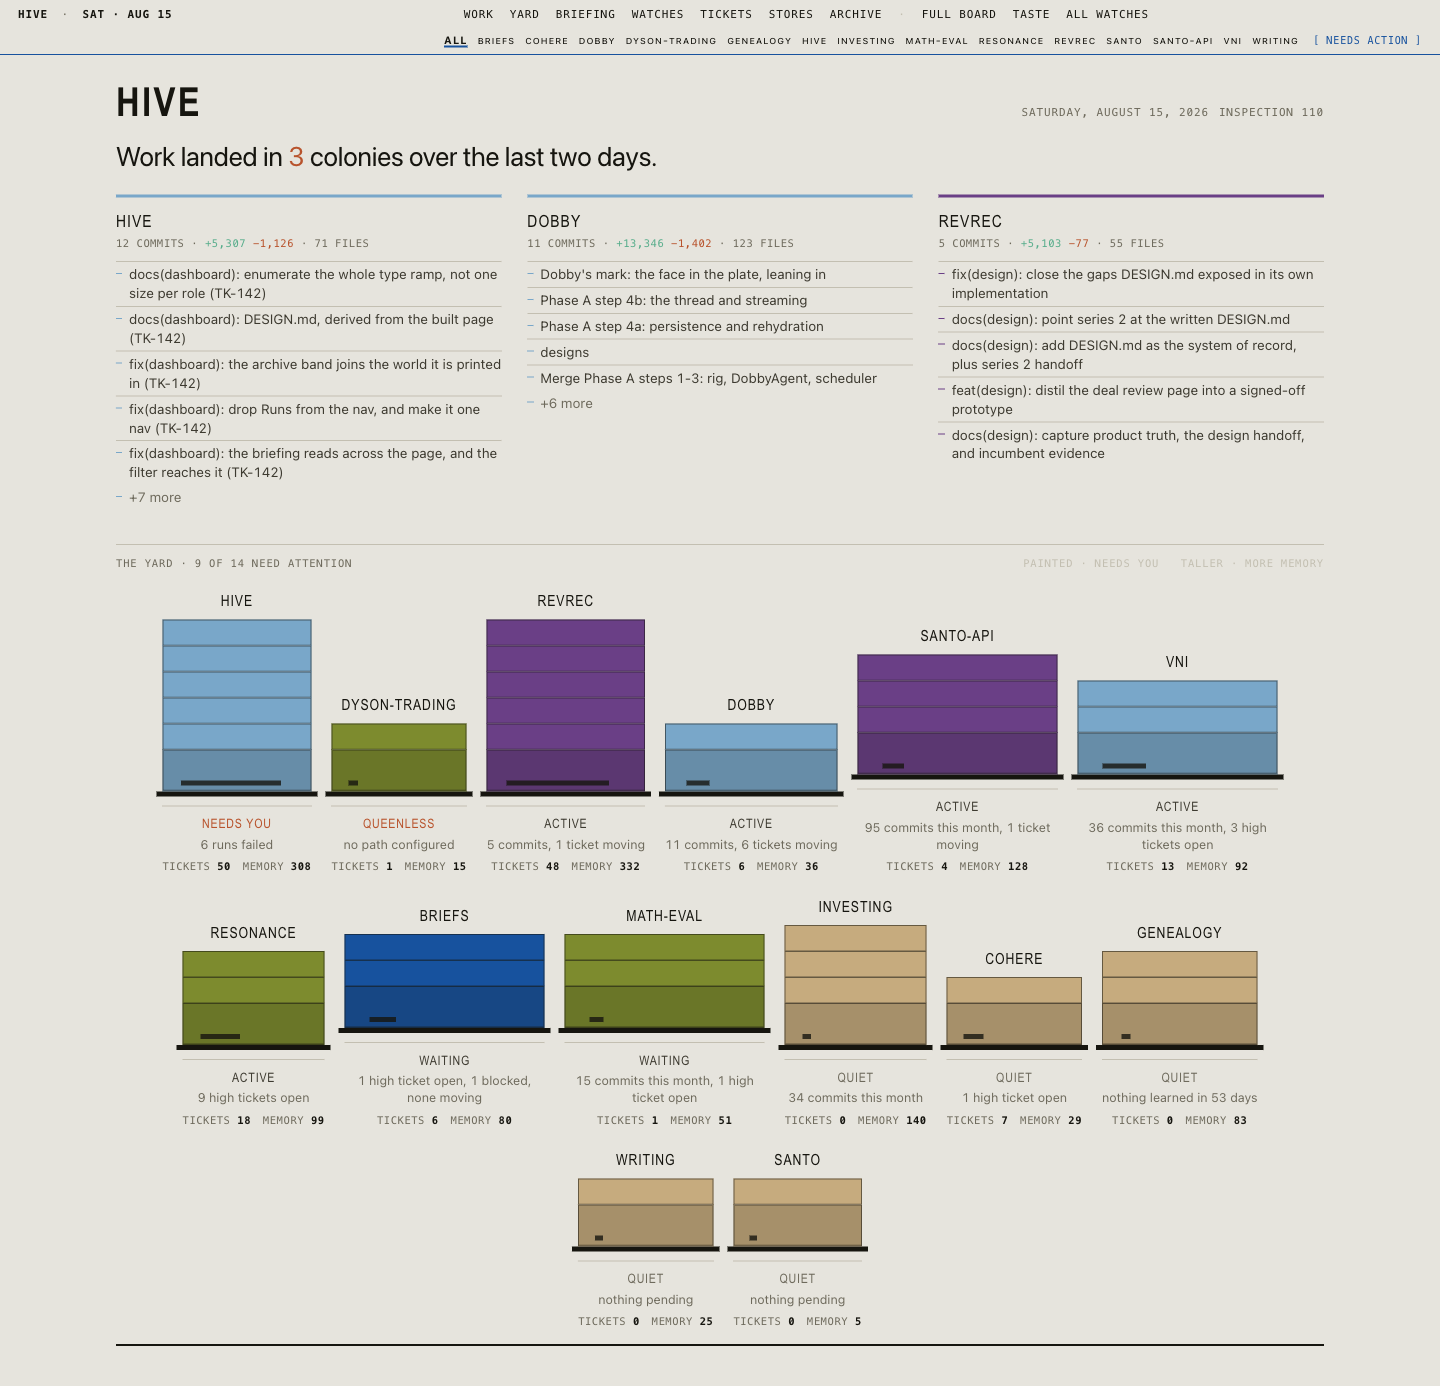
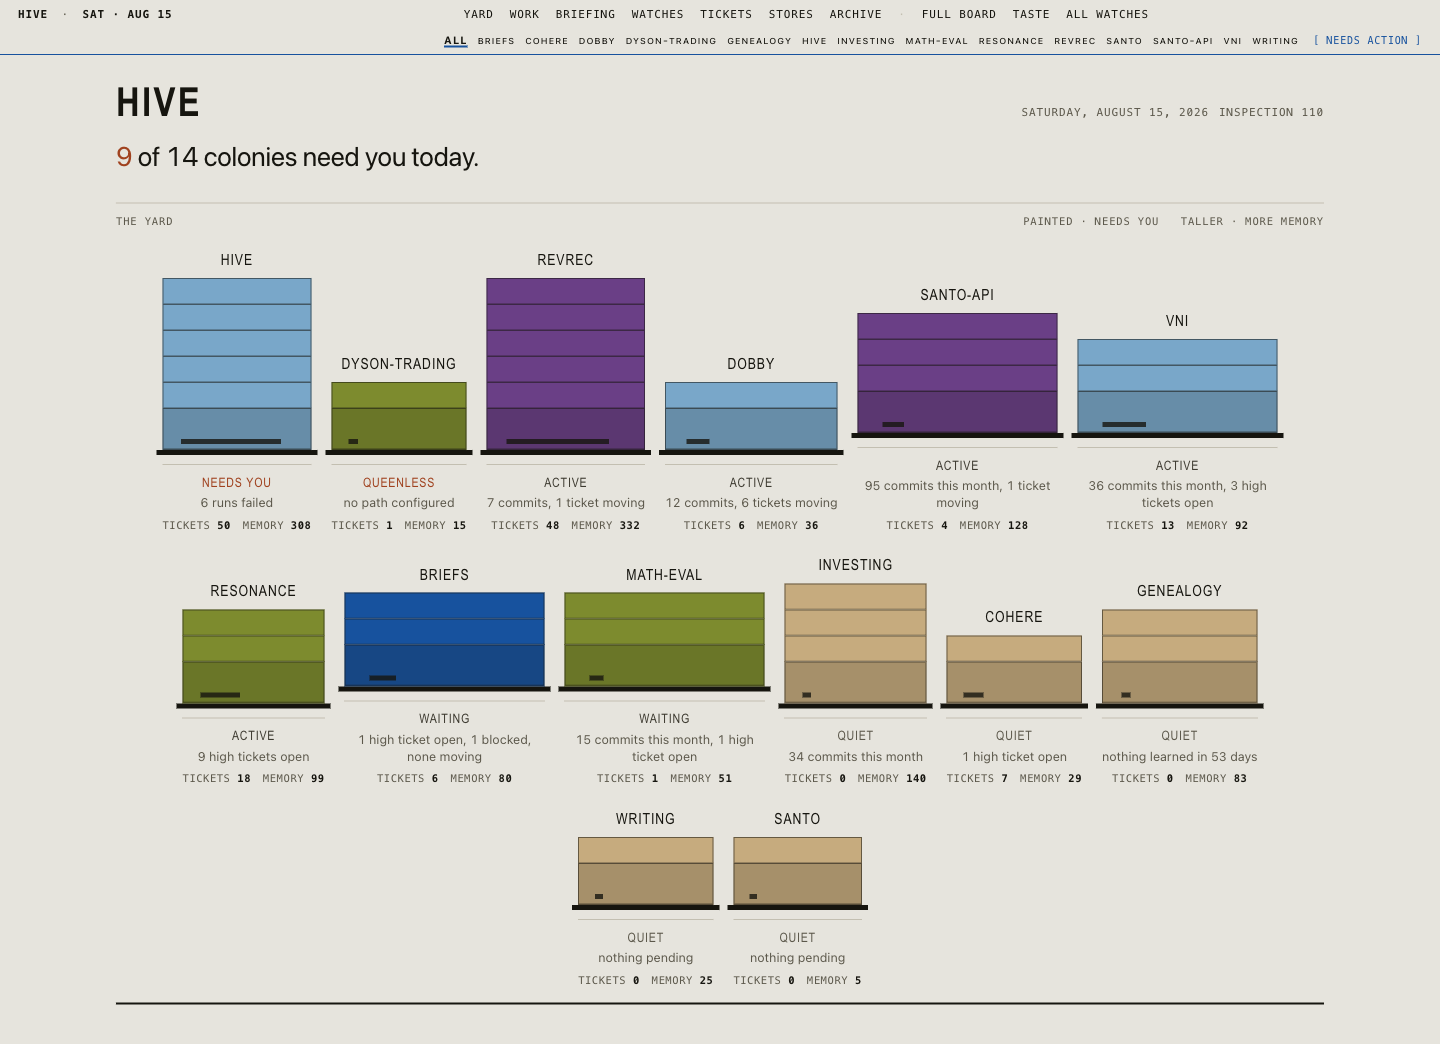
fix(dashboard): close the eight findings from the finish review (TK-142)
**The largest sentence now answers the question the reader came with.**
The 27px slot said "Work landed in 3 colonies over the last two days" —
activity, not a verdict — while "9 of 14 need attention" sat at 10.5px
muted in the yard label. It now reads "9 of 14 colonies need you today",
and the commit count moved to the work band's own label where it belongs.
This is the contract's FIRST VIEWPORT and DESIGN.md's own Answer-First
Rule, both of which the build was failing.

**The hives come directly beneath that sentence.** The work band stood in
between, ~226px of counts and commit prose that pushed every verdict plate
below an 800px fold. Moved below the yard; the first verdict now sits at
506px.

**Oxide is escalation again.** Four decorative uses removed — deletion
figures, the hovered colony name, the selected colony name, and a commit
count. Selection and hover are ruled instead, which is the ordinary
grammar for "this is the thing you are about to click", and the dimming of
every other colony was already the loud signal. The one oxide use that
survives is the count of colonies that want you, which is the escalation
itself.

**Four colours failed AA and one of them was the verdict.** --muted was
4.26:1 on chalk and carries nearly every small string on the page;
--oxide was 3.83:1 and sets NEEDS YOU at 13px; --faint at 1.45:1 was
setting the legend that teaches what the whole yard means; the additive
figure was verdigris at 2.13:1. Now 5.59, 5.01, --muted, and --muted.
[…]

diff --git a/src/lib/dashboard/render.ts b/src/lib/dashboard/render.ts
@@ -273,15 +273,22 @@ export function renderYard(data: DashboardData): string {
   // The work band is about what actually landed, so a project that is only
   // live on the month scale scores in the yard but earns no row here.
   const worked = (data.activity ?? []).filter((a) => a.commits > 0);
-  const call = worked.length === 0
-    ? `<p class="quiet">Nothing moved in the last two days.</p>`
-    : `<p>Work landed in <span class="count">${worked.length}</span> ${
-        worked.length === 1 ? "colony" : "colonies"
-      } over the last two days.</p>`;
 
-  const attentionLine = attention.length === 0
-    ? `all ${colonies.length} quiet`
-    : `${attention.length} of ${colonies.length} need attention`;
+  // The largest sentence on the page answers the question the reader came
+  // with. It used to count commits, which is activity, not a verdict — the
+  // number that actually decides the morning was set at 10.5px in the yard
+  // label. Scale follows how load-bearing a sentence is, not where it sits.
+  const call = colonies.length === 0
+    ? `<p class="quiet">No colonies in the yard.</p>`
+    : attention.length === 0
+      ? `<p class="quiet">All ${colonies.length} colonies are quiet.</p>`
+      : `<p><span class="count">${attention.length}</span> of ${colonies.length} ${
+          colonies.length === 1 ? "colony needs" : "colonies need"
+        } you today.</p>`;
+
+  const workedLine = worked.length === 0
+    ? "nothing landed in the last two days"
+    : `${worked.length} ${worked.length === 1 ? "colony" : "colonies"} &middot; last two days`;
 
   const hives = colonies
     .map((c, i) => {
@@ -329,14 +336,14 @@ export function renderYard(data: DashboardData): string {
   </div>
 </header>
 <div class="yard-call">${call}</div>
-${renderWork(worked)}
-<section class="yard" id="section-yard">
+<section class="yard" id="section-yard" aria-labelledby="yard-label">
   <div class="yard-label">
-    <span>The yard &middot; ${escapeHtml(attentionLine)}</span>
+    <h2 id="yard-label">The yard</h2>
     <span class="yard-key">painted &middot; needs you &nbsp; taller &middot; more memory</span>
   </div>
   ${body}
-</section>`;
+</section>
+${renderWork(worked, workedLine)}`;
 }
 
 /** How many commit subjects a colony shows before it folds the rest away. */
@@ -347,7 +354,7 @@ const SUBJECT_CAP = 5;
  * record of work HIVE actually holds, and a subject someone wrote by hand
  * says more than a count of closed tickets.
  */
-export function renderWork(activity: ProjectActivity[]): string {
+export function renderWork(activity: ProjectActivity[], aside = ""): string {
   if (activity.length === 0) {
     return `<section class="work"><p class="work-none">No commits in the window. Either a quiet stretch or the repos moved somewhere HIVE is not looking.</p></section>`;
   }
@@ -373,7 +380,16 @@ export function renderWork(activity: ProjectActivity[]): string {
     })
     .join("");
 
-  return `<section class="work" id="section-work"><ol class="work-list">${items}</ol></section>`;
+  // The commit count moved here from the page's largest sentence. It belongs
+  // to this band — it says how much landed, not whether anything wants you.
+  return `
+<section class="work" id="section-work" aria-labelledby="work-label">
+  <div class="yard-label">
+    <h2 id="work-label">Work</h2>
+    ${aside ? `<span class="yard-key">${aside}</span>` : ""}
+  </div>
+  <ol class="work-list">${items}</ol>
+</section>`;
 }
 
 /**
@@ -408,8 +424,8 @@ export function renderUpkeep(data: DashboardData): string {
     : "";
 
   return `
-<section class="upkeep" id="section-upkeep">
-  <div class="yard-label"><span>Upkeep</span></div>
+<section class="upkeep" id="section-upkeep" aria-labelledby="upkeep-label">
+  <div class="yard-label"><h2 id="upkeep-label">Upkeep</h2></div>
   <ul class="upkeep-list">${jobs}${cost}${taste}</ul>
 </section>`;
 }
@@ -418,12 +434,17 @@ export function renderUpkeep(data: DashboardData): string {
  * Section shell: one heading language for every band below the yard.
  * `aside` is author-written markup, never user content — callers escape
  * anything interpolated into it themselves.
+ *
+ * The title is a real `h2` carrying the section's accessible name. It was a
+ * span in a div, which looked identical and left six major sections with no
+ * heading and no name — the page's only real headings came from briefing
+ * markdown, at 14px, below body size.
  */
 function band(id: string, title: string, aside: string, body: string): string {
   return `
-<section class="band" id="section-${id}">
+<section class="band" id="section-${id}" aria-labelledby="${id}-label">
   <div class="yard-label">
-    <span>${escapeHtml(title)}</span>
+    <h2 id="${id}-label">${escapeHtml(title)}</h2>
     ${aside ? `<span class="yard-key">${aside}</span>` : ""}
   </div>
   ${body}
@@ -449,8 +470,16 @@ function band(id: string, title: string, aside: string, body: string): string {
 export function renderBriefingBand(data: DashboardData): string {
   const b = data.todayBriefing;
   if (!b) return "";
-  // Drop the artifact's own H1: the band already carries the date.
-  const body = b.body.replace(/^#\s+.*\n?/, "").trim();
+  // Drop the artifact's own H1 (the band already carries the date) and the
+  // "## Headline" label above the lede. The label is an eyebrow over a
+  // heading — the sentence beneath it is self-evidently the headline, and
+  // naming it costs a line and says nothing. The briefing template still
+  // writes it because the section names are how the generator is steered;
+  // stripping it here keeps that contract intact and the page clean.
+  const body = b.body
+    .replace(/^#\s+.*\n?/, "")
+    .replace(/^\s*##\s+headline\s*\n/i, "")
+    .trim();
   const projectIds = data.projects.map((p) => p.id);
   const html = tagProjectBullets(tagProjectSections(md(body), projectIds), projectIds);
   return band(
@@ -613,8 +642,8 @@ export function renderStickyNav(data: DashboardData, c: RenderContext): string {
     (data.openQuestions ?? []).length > 0 ||
     (data.promotionCandidates ?? []).length > 0;
   const sections: [boolean, string, string][] = [
-    [(data.activity ?? []).some((a) => a.commits > 0), "#section-work", "Work"],
     [true, "#section-yard", "Yard"],
+    [(data.activity ?? []).some((a) => a.commits > 0), "#section-work", "Work"],
     [!!data.todayBriefing, "#section-briefing", "Briefing"],
     [(data.watches?.rows.length ?? 0) > 0, "#section-watches", "Watches"],
     [true, "#section-tickets", "Tickets"],

diff --git a/src/lib/dashboard/styles/yard.ts b/src/lib/dashboard/styles/yard.ts
@@ -56,6 +56,8 @@ export const YARD_CSS = `
   text-wrap: balance;
   max-width: 34ch;
 }
+/* Oxide earns its place here now: the count is how many colonies want you,
+   which is the escalation itself. It was a commit count, which was not. */
 .yard-call .count { color: var(--oxide); }
 .yard-call .quiet { color: var(--muted); }
 
@@ -98,8 +100,11 @@ export const YARD_CSS = `
   color: var(--muted);
   margin-top: 2px;
 }
-.work-figures .add { color: var(--hive-1); }
-.work-figures .cut { color: var(--oxide); }
+/* Insertions and deletions are measurements, not escalations, and the sign
+   already says which is which. Verdigris on chalk was 2.13:1 and oxide is
+   reserved — all colour in this system sits on objects, none on the page. */
+.work-figures .add,
+.work-figures .cut { color: var(--muted); }
 
 .work-subjects {
   list-style: none;
@@ -151,7 +156,20 @@ export const YARD_CSS = `
   justify-content: space-between;
   gap: 20px;
 }
-.yard-key { color: var(--faint); }
+/* The section title is a real h2 for the outline and the accessible name, and
+   it must look exactly like the span it replaced — the label is a label, not
+   a heading you read. Everything here undoes a user-agent default. */
+.yard-label h2 {
+  font: inherit;
+  letter-spacing: inherit;
+  text-transform: inherit;
+  color: inherit;
+  margin: 0;
+}
+/* This line teaches the two encodings the whole yard rests on — "painted ·
+   needs you, taller · more memory" — and at --faint it was 1.45:1, which is
+   to say it was not there. Same class carries every band's count. */
+.yard-key { color: var(--muted); }
 
 /* ---------- Bands below the yard ---------- */
 
@@ -209,8 +227,10 @@ export const YARD_CSS = `
 .briefing-body li { margin-bottom: 6px; line-height: 1.5; }
 .briefing-body code { background: var(--chalk-deep); padding: 1px 4px; }
 
-/* The lede: the one sentence the night decided mattered. */
-.briefing-body > h2:first-child + p {
+/* The lede: the one sentence the night decided mattered. It is the first
+   thing in the band now that the "Headline" label is stripped in the
+   renderer, so it is selected directly rather than through the eyebrow. */
+.briefing-body > p:first-child {
   font-size: 20px;
   line-height: 1.45;
   max-width: 62ch;
@@ -376,8 +396,15 @@ export const YARD_CSS = `
 
 /* ---------- Project filter: the colonies are the control ---------- */
 
+/* Being the selected colony is not an escalation, so it is not oxide. The
+   dimming of every other colony is already the loud signal; the board thickens
+   and the name is ruled to say which one you are standing in. */
 .yard.filtering .colony:not(.colony--selected) { opacity: 0.3; }
-.colony--selected .colony-name { color: var(--oxide); }
+.colony--selected .colony-name {
+  text-decoration: underline;
+  text-decoration-thickness: 2px;
+  text-underline-offset: 3px;
+}
 .colony--selected .colony-board { height: 8px; }
 
 /* Filtered to one colony, the briefing is one colony's briefing: a column of
@@ -548,8 +575,13 @@ body.filtered-to-project .briefing-body > ol { columns: 1; max-width: 74ch; }
 
 /* ---------- States ---------- */
 
+/* Hover is not an escalation either. A rule under the name is the ordinary
+   grammar for "this is the thing you are about to click". */
 .colony:hover .colony-name,
-.colony:focus-visible .colony-name { color: var(--oxide); }
+.colony:focus-visible .colony-name {
+  text-decoration: underline;
+  text-underline-offset: 3px;
+}
 .colony:hover .super { border-color: var(--ink); }
 
 /* Wood already reads as quiet; dimming on top of it only muddies the seams. */

diff --git a/src/__tests__/dashboard-render.test.ts b/src/__tests__/dashboard-render.test.ts
@@ -297,6 +297,60 @@ describe("renderDashboard", () => {
   });
 });
 
+// The direction contract promises a first viewport of one sentence counting
+// the colonies that want you, with the hives beneath it. The build shipped a
+// commit count in that slot and the work band in between; the finish review
+// caught it. These pin the shape.
+describe("first viewport — the answer, then the hives", () => {
+  test("the page's largest sentence counts the colonies that want you", () => {
+    const html = renderDashboard(baseData());
+    const call = html.match(/<div class="yard-call">([\s\S]*?)<\/div>/)![1]!;
+    expect(call).toMatch(/need(s)? you today/);
+    expect(call).toContain('<span class="count">');
+    // Activity is not a verdict, and it used to hold this slot.
+    expect(call).not.toContain("Work landed");
+  });
+
+  test("a quiet apiary says so rather than counting to zero", () => {
+    const html = renderDashboard(baseData({ projects: [], briefings: [], todayBriefing: null }));
+    expect(html).toContain("No colonies in the yard");
+  });
+
+  test("nothing stands between the sentence and the yard", () => {
+    const html = renderDashboard(
+      baseData({
+        activity: [
+          { projectId: "alpha", commits: 2, insertions: 8, deletions: 1, filesChanged: 2, subjects: ["a thing"] },
+        ],
+      }),
+    );
+    expect(html.indexOf('class="yard-call"')).toBeLessThan(html.indexOf('id="section-yard"'));
+    expect(html.indexOf('id="section-yard"')).toBeLessThan(html.indexOf('id="section-work"'));
+  });
+
+  test("every section carries a heading and an accessible name", () => {
+    const html = renderDashboard(baseData());
+    for (const id of ["yard", "briefing", "tickets", "stores", "archive", "upkeep"]) {
+      expect(html).toContain(`aria-labelledby="${id}-label"`);
+      expect(html).toContain(`<h2 id="${id}-label">`);
+    }
+  });
+
+  test("the briefing leads with its lede, not with the word Headline", () => {
+    const html = renderDashboard(
+      baseData({
+        todayBriefing: {
+          date: "2026-04-17",
+          body: "# HIVE\n\n## Headline\nOne sentence that mattered.\n",
+          headline: "One sentence",
+        },
+      }),
+    );
+    expect(html).toContain("One sentence that mattered.");
+    expect(html).not.toContain("<h2>Headline</h2>");
+  });
+});
+
 // The project filter hides `[data-project]` and nothing else, so every surface
 // that speaks about one project has to say so in the markup. This has now been
 // missed twice — once when the filter shipped, once when the redesign rebuilt

diff --git a/src/lib/dashboard/styles/base.ts b/src/lib/dashboard/styles/base.ts
@@ -18,11 +18,18 @@ export const BASE_CSS = `
   --chalk-deep: #dad7cc;
   --ink: #16150f;
   --ink-soft: #3d3a30;
-  --muted: #6e6a5c;
+  /* 5.6:1 on chalk. Was #6e6a5c at 4.26:1, which fails AA for small text and
+     is what nearly every small string on the page is set in — colony reasons,
+     band labels, figures, dateline, upkeep, footer. */
+  --muted: #5c584b;
+  /* A rule colour, not a text colour: 1.45:1 on chalk. Anything readable
+     belongs in --muted or darker. */
   --faint: #c3bfb1;
 
-  /* Reserved. Escalation only — never decoration. */
-  --oxide: #b8532c;
+  /* Reserved. Escalation only — never decoration.
+     4.9:1 on chalk. Was #b8532c at 3.83:1, and it sets the colony verdict at
+     13px — the single most load-bearing string on the surface. */
+  --oxide: #a0421f;
 
   /* Painted hive bodies. Stable slot per project.
      Values alternate dark / mid / dark / mid / dark so any two neighbours

diff --git a/DESIGN.md b/DESIGN.md
@@ -6,9 +6,9 @@ colors:
   chalk-deep: "#dad7cc"
   ink: "#16150f"
   ink-soft: "#3d3a30"
-  muted: "#6e6a5c"
+  muted: "#5c584b"
   faint: "#c3bfb1"
-  oxide: "#b8532c"
+  oxide: "#a0421f"
   wood: "#c6ab7e"
   hive-0: "#17529e"
   hive-1: "#57ad8b"
@@ -63,8 +63,9 @@ typography:
   # but three of the tiers are ranked rather than single-valued — title runs
   # 17/15/14/13 by how load-bearing the name is, body-small runs 13.5/12.5, and
   # the mono label tier runs 11/10.5/10. Plus the verdict sentence's 22px
-  # compact step below 860px. Thirteen steps and no strays: every font-size on
-  # the surface is one of these.
+  # compact step below 860px. Fourteen entries, thirteen distinct sizes (title
+  # and body deliberately share 15px), and no strays: every font-size on the
+  # surface is one of these.
   scale:
     display: "40px"
     headline: "27px"
@@ -161,7 +162,9 @@ The density is that of a working record rather than a product page. Rules are ha
 
 Three anti-references are binding and were chosen against explicitly. **No hexagon** appears anywhere — the world is a yard of boxes, not a bee mascot. **Honey-amber is not the accent**; the only warm tone in the system is unpainted pine, and it means the opposite of "look here". And this replaces a **serif broadsheet** dashboard: the incumbent's double-rule masthead, 68px display weight, and equal-weight section stack are what the thesis refuses, not a style to preserve.
 
-Two things are open, not settled. The display face `--stencil` currently resolves to a condensed *system* stack (`"Haettenschweiler", "Arial Narrow"`) carrying an explicit do-not-ship comment in `base.ts`; the stencil voice wants a real embedded face and the frontmatter records the placeholder, not an endorsement. And the Impeccable finish review has not run, so no verdict table exists for this surface yet.
+One thing is open, not settled. The display face `--stencil` resolves to a condensed *system* stack (`"Haettenschweiler", "Arial Narrow"`) carrying an explicit do-not-ship comment in `base.ts`. Measured on the build machine, Haettenschweiler is absent, so the display voice renders as Arial Narrow Bold — a condensed grotesque with no stencil character at all. The frontmatter records the placeholder, not an endorsement.
+
+The Impeccable finish review ran and returned eight material findings, all since fixed: the largest sentence answered the wrong question, the work band stood between that sentence and the hives, oxide was used decoratively four times, four colours failed AA contrast, and six sections carried no heading semantics. The colour and contrast decisions below are post-review.
 
 **Key Characteristics:**
 - Weathered chalk ground; all colour is on objects, none on the page.
@@ -176,13 +179,13 @@ Two things are open, not settled. The display face `--stencil` currently resolve
 A near-monochrome mineral ground carrying five saturated painted-object slots, one reserved alarm, and one deliberately unsaturated "nothing to do here" tone.
 
 ### Primary
-- **Oxide Red** (`--oxide`): Escalation. The count in the verdict sentence, a `needs-you` or `queenless` verdict on a colony plate, the priority mark on a blocked ticket, deletions in the work band, the error snackbar, the hovered/selected colony name. It appears nowhere else and never as a surface, border, or decoration.
+- **Oxide Red** (`--oxide`): Escalation. Four uses and no others: the count in the verdict sentence (how many colonies want you), a `needs-you` or `queenless` verdict on a colony plate, the priority mark on a blocked ticket, and the error snackbar. It never appears as a surface, border, or decoration. The finish review found four that failed this rule — deletions in the work band, the hovered colony name, the selected colony name, and a commit count — and all four were replaced with ink, muted, or a rule.
 
 ### Secondary — the painted hive bodies
 Five slots, assigned by a stable hash of the project id so a colony keeps its colour across days and across reorderings. Values alternate dark / mid / dark / mid / dark so any two neighbours separate by lightness as well as hue; the first attempt used five mid-tones and read as mud.
 
 - **Cobalt** (`--hive-0`): Slot 0. Also carries interactive affordances inherited through the `--amber` migration alias (action labels, pill underlines, focus ring on legacy routes).
-- **Verdigris** (`--hive-1`): Slot 1. Also the additive figure (`+lines`) in the work band.
+- **Verdigris** (`--hive-1`): Slot 1. Paint only — it briefly set the additive figure (`+lines`) in the work band at 2.13:1, which is the kind of use the ground rule forbids: all colour is on objects, none on the page.
 - **Violet** (`--hive-2`): Slot 2.
 - **Slate Blue** (`--hive-3`): Slot 3.
 - **Olive** (`--hive-4`): Slot 4.

diff --git a/README.md b/README.md
@@ -95,19 +95,20 @@ Every night HIVE inspects the projects it tracks. The dashboard is the
 inspection report, and it opens with the answer: which projects want you
 today, and why.
 
-<img src="img/dashboard.png" alt="The HIVE dashboard: a wordmark and the line 'Work landed in 3 colonies over the last two days', three columns of commit subjects per project, then a row of painted hive boxes standing at different heights on a shared baseline, each labelled with a verdict — NEEDS YOU, QUEENLESS, ACTIVE, WAITING, QUIET — and its ticket and memory counts" width="900">
+<img src="img/dashboard.png" alt="The HIVE dashboard: the wordmark, then in large type '9 of 14 colonies need you today', then a yard of painted hive boxes standing at different heights on a shared baseline — each labelled with a verdict (NEEDS YOU, QUEENLESS, ACTIVE, WAITING, QUIET), a one-line reason, and its ticket and memory counts" width="900">
 
-Each project is a colony. A colony stands as tall as its accumulated
-memory, its entrance is as wide as its ticket traffic, and the plate
-underneath carries the verdict the night reached — `NEEDS YOU`,
-`QUEENLESS`, `ACTIVE`, `WAITING`, `QUIET`. Painted means look at me;
-unpainted pine means fine. Height and width are data, not decoration, so
-the yard reads as magnitude before it reads as text.
+The whole first screen is that answer and nothing else. Each project is a
+colony: it stands as tall as its accumulated memory, its entrance at the
+base is as wide as its ticket traffic, and the plate underneath carries
+the verdict the night reached with the reason it reached it. Painted means
+look at me; unpainted pine means fine. Height and width are data, not
+decoration, so the yard reads as magnitude before it reads as text.
 
-Below the yard: the morning briefing set in columns, whatever the watches
-said overnight, a five-per-project ticket shortlist, the memory store, and
-30 days of past briefings. Click any colony to narrow the whole page to
-that project. `/tickets`, `/taste` and `/watches` are their own pages.
+Below the yard: what actually landed (commit subjects as people wrote
+them), the morning briefing set in columns, whatever the watches said
+overnight, a five-per-project ticket shortlist, the memory store, and 30
+days of past briefings. Click any colony to narrow the whole page to that
+project. `/tickets`, `/taste` and `/watches` are their own pages.
 
 The design system it was built against is recorded in
 [DESIGN.md](DESIGN.md).
